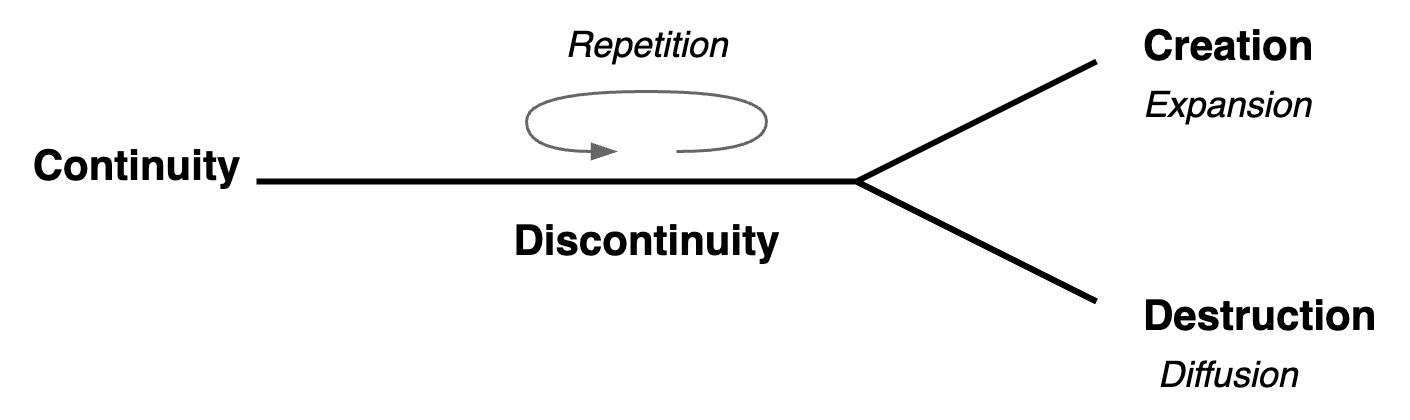
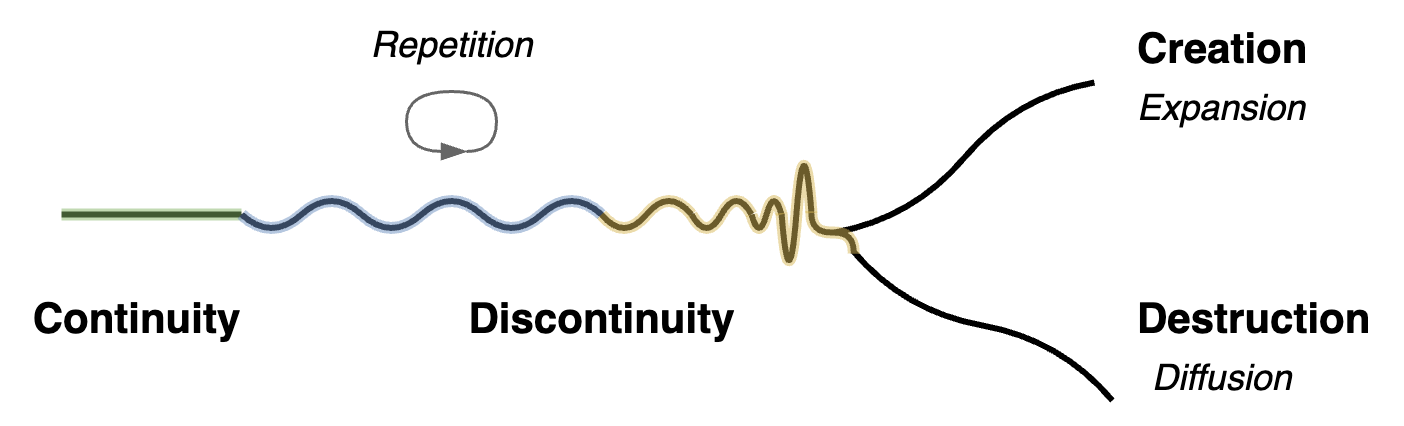
fri

diff --git a/collaboration/retrospectives.md b/collaboration/retrospectives.md
@@ -10,15 +10,15 @@ A team cannot function without *healthy* dynamics. Even predictable environment 
 
 Retrospectives help teams to improve. It addresses systematic issues and it improve connection (inclusivity) of the team. Moreover, doing retrospectives *regularly* influences the culture and expectations of team members. Good intentions will become habbits.
 
-The style of retrospectives tends to change as the team matures and grows. A facilitator may give the following explanation.
+The style of retrospectives tends to change as the team matures and grows.
 
-```
-1. The initial focus is connection with each other. Once we’ve developed more trust, I will initiate debate around important issues. 
-2. This will gradually lead to commitments. I'll help you to inspect these and make them more transparent. Commitments invite accountability - which can lead to confrontations. 
-3. In turn, we'll learn how to make this easier. Finally, we'll shift our attention to results.
-```
+1. Connection. Some sort of shared understanding. A basic level of trust. Communication will be problematic without this.
+2. Debate. Discuss agreements and events. Transparency and commitments.
+3. Focus on results. *What problems are we solving? How?*
 
 Note that result-oriented sessions can be perceived as more usefull, in a business sense. However, this requires a level of psychological safety - which is why the earlier steps are important.
+
+Visualization helps to understand what is happening, what is getting attention and where effort is being put towards. E.g. public documents, a Scrum/Kanban board, roadmaps.
 
 
 

diff --git a/management/accountability.md b/management/accountability.md
@@ -1,0 +1,28 @@
+# Accountability
+
+Also see [collaboration](../collaboration/accountability).
+
+## Management Roles
+
+A general manager may be accountable for "everything". In large organizations, this accountability is split up to dedicated roles.
+
+| Role                        | Accountability                         | Context                       |
+| --------------------------- | -------------------------------------- | ----------------------------- |
+| Context manager             | Positioning of a system or department. | Stakeholders & customers      |
+| Delivery manager            | Value delivery.                        | Customers, resources, chains  |
+| Engineering manager         | Engineering quality & predictability.  | Technology & capability       |
+| People manager              | Capability of employees.               | Performance & well-being      |
+| Project (portfolio) manager | A set of projects                      | Time, scope, cost, risks      |
+| Product manager             | Product value. Vision and realization. | Discovery & delivery of value |
+
+
+
+## Domains
+
+Value chain
+
+<img src="../img/production-outcome.png" alt="production-outcome" style="width:30em;" />
+
+Context & capability
+
+<img src="../img/value-chain-context-small.png" alt="value-chains-environment" style="width:30em;" />

diff --git a/metaphysics/structure.md b/metaphysics/structure.md
@@ -1,5 +1,17 @@
 # Structure
 
+[toc]
+
+## Overview
+
+Structure can be persistent or changing. Change may repeat itself or dissolve into uniformity.
+
+<img src="../img/continuity-creation-destruction.png" alt="continuity-creation-destruction" style="width:35em;" />
+
+
+
+## Dual Model
+
 Two types of structure.
 
 - `~` Dynamic structure. Fluid, like a wave.
@@ -16,7 +28,7 @@ Two types of structure.
 
 
 
-## Learning
+### Learning
 
 |            | Dynamic Learning           | Static Learning              |
 | ---------- | -------------------------- | ---------------------------- |
@@ -27,7 +39,7 @@ Two types of structure.
 
 
 
-## Society
+### Society
 
 |            | Dynamic Structure           | Static Structure                                             |
 | ---------- | --------------------------- | ------------------------------------------------------------ |
@@ -35,7 +47,6 @@ Two types of structure.
 | **Origin** | Evolved                     | Designed, planned                                            |
 | **How**    | Shared responsibility       | [Government](https://en.wikipedia.org/wiki/Separation_of_powers) |
 | **What**   | Culture, rituals, mythology | Laws, policies                                               |
-
 
 
 

diff --git a/management/product-management.md b/management/product-management.md
@@ -28,6 +28,12 @@ Two perspectives are a contextual view and an internal view. These map to the va
 
 
 
+The value chain exists within an environment and a context. The scope of product manager stops at this boundary. The value chain is contingent upon organizational (and technical) capabilities. See [accountability](../collaboration/accountability.md).
+
+<img src="../img/value-chain-environment.png" alt="value-chains-environment" style="width:40em;" />
+
+
+
 ### Contextual View
 
 Running a business involves collaboration and [management](https://en.wikipedia.org/wiki/Business_Model_Canvas).
@@ -221,5 +227,4 @@ A [locally optimized, simplified version](https://twitter.com/johncutlefish/stat
 
 **Zombie product**
 A product that is kept alive for political or personal reasons rather than market demand.
-
 

diff --git a/collaboration/retrospective-templates.md b/collaboration/retrospective-templates.md
@@ -29,6 +29,18 @@ Focus on flow, rather than control
 
 
 
+## Context
+
+A facilitator may give the following explanation.
+
+```
+1. The initial focus is connection with each other. Once we’ve developed more trust, I will initiate debate around important issues. 
+2. This will gradually lead to commitments. I'll help you to inspect these and make them more transparent. Commitments invite accountability - which can lead to confrontations. 
+3. In turn, we'll learn how to make this easier. Finally, we'll shift our attention to results.
+```
+
+
+
 ## Introductions
 
 ### Read the room

diff --git a/management/management-styles.md b/management/management-styles.md
@@ -69,3 +69,17 @@ Context: stakeholders & developers
 | `A` **Big desire** | Commitment | Vision and values    |
 | `α` **Attention**  | Method     | Results              |
 
+
+
+## People Management
+
+Core: organization of people
+
+Context: the organziation itself
+
+|                    | Commanding | Positioning          |
+| ------------------ | ---------- | -------------------- |
+| `Γ` **Context**    | Contracts  | Organizing principle |
+| `A` **Big desire** | ...        | Vision and values    |
+| `α` **Attention**  | Activity   | Expectations         |
+

diff --git a/models.md b/models.md
@@ -6,7 +6,7 @@
 
 <img src="img/junction-change-deviate-rest.png" alt="junction-change-deviate-rest" style="height:15em;" />   <img src="img/junction-goals-revenue.png" alt="junction-goals-revenue" style="height:15em;" />   <img src="img/junction-communication.png" alt="junction-communication" style="height:15em;" />
 
-
+<img src="img/junction-being-becoming.png" alt="junction-being-becoming" style="width:30em;" />
 
 
 

diff --git a/collaboration/leadership.md b/collaboration/leadership.md
@@ -67,6 +67,10 @@ The leader
 | **Risk**          | Aggressive, ruthless, cold       | Sub-assertive, soft                 |
 | **Communication** | Control, command, challenge.     | Encourage, incentivize, facilitate. |
 
+Surrendering
+
+- Surrendering is to accept the present. To staying with an experience, rather than controlling it.
+
 
 
 Minimal inteference. See [gardening](gardening.md).

diff --git a/management/systems-management.md b/management/systems-management.md
@@ -66,7 +66,7 @@ In a system with limited resources, there is a need to balance attention.
 - Strong focus requires saying no.
 - Distributed focus lacks power.
 
-<img src="../img/onderstroom-bovenstroom.png" alt="mainstream-undercurrent" style="height:8em;" />
+<img src="../img/waves-onderstroom-bovenstroom.png" alt="mainstream-undercurrent" style="height:8em;" />
 
 
 

diff --git a/metaphysics/quality.md b/metaphysics/quality.md
@@ -19,7 +19,7 @@ Static quality
 
 
 
-<img src="../img/worldview-quality.png" alt="worldview-quality" style="width:80%;" />
+<img src="../img/worldview-quality.png" alt="worldview-quality" style="width:45em;" />
 
 
 

diff --git a/collaboration/scrum-notes.md b/collaboration/scrum-notes.md
@@ -101,3 +101,5 @@ Consider:
 - Did it help you to plan?
 - Did it help you to adapt your plan?
 - Did it help you to learn?
+- Are you using it for the right type of work? (ratio BAU, change)
+
